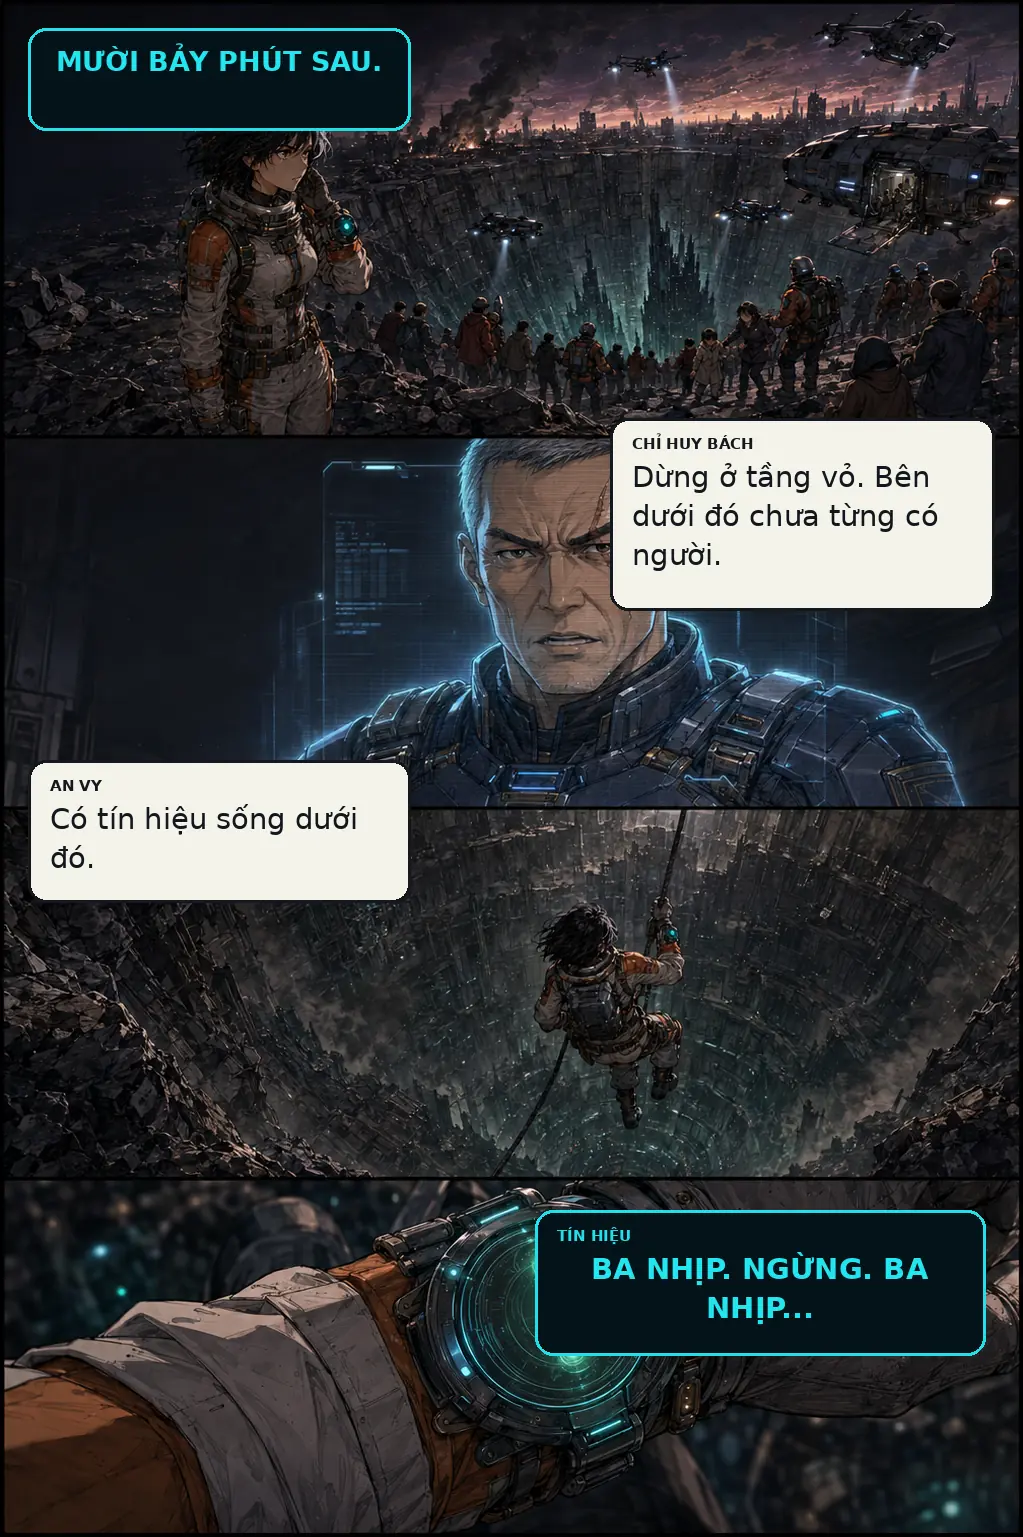
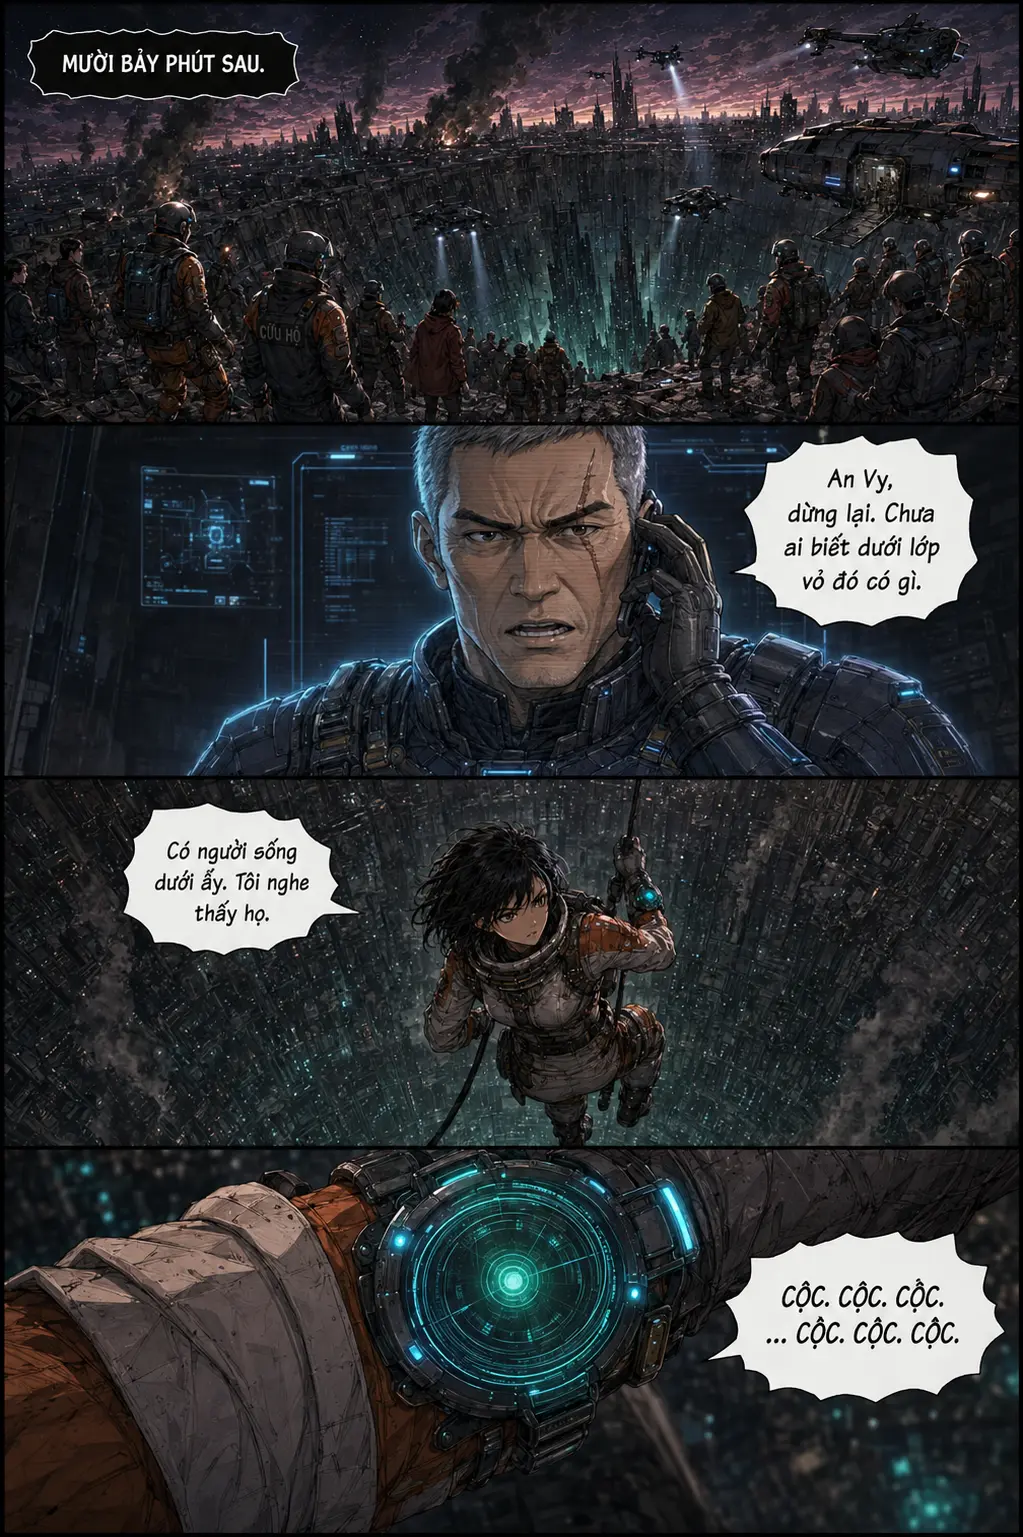
Làm tự nhiên thoại mở đầu Vết Thủng 2237

diff --git a/vet-thung-2237/story-data.js b/vet-thung-2237/story-data.js
@@ -3,8 +3,8 @@ const STORY = {
   publishedThrough: 12,
   chapterComplete: true,
   pages: [
-    {number: 1, image: 'assets/pages/page-01.webp', title: 'Thứ rơi ngoài bản đồ sao', alt: 'Thiên thể đen xuyên qua thành phố năm 2237'},
-    {number: 2, image: 'assets/pages/page-02.webp', title: 'Ba nhịp', alt: 'An Vy nhận tín hiệu sống dưới hố sâu'},
+    {number: 1, image: 'assets/pages/page-01.webp?v=dialogue-20260811', title: 'Thứ rơi ngoài bản đồ sao', alt: 'Thiên thể Mắt Rơi xuyên qua thành phố năm 2237 và An Vy gọi Trung tâm'},
+    {number: 2, image: 'assets/pages/page-02.webp?v=dialogue-20260811', title: 'Ba nhịp', alt: 'An Vy bất chấp lệnh dừng và nghe ba nhịp từ dưới hố sâu'},
     {number: 3, image: 'assets/pages/page-03.webp', title: 'Kẻ Trên Mặt', alt: 'An Vy chạm trán chiến binh Kha-Ruun'},
     {number: 4, image: 'assets/pages/page-04.webp', title: 'Bầu trời thứ hai', alt: 'Kha-Ruun đưa An Vy nhìn thấy Nham Cung'},
     {number: 5, image: 'assets/pages/page-05.webp', title: 'Nham Cung báo động', alt: 'An Vy và Kha-Ruun bị đưa ra trước Hội Đồng Nham'},

diff --git a/vet-thung-2237/index.html b/vet-thung-2237/index.html
@@ -75,7 +75,7 @@
     </nav>
   </section>
 
-  <script src="story-data.js"></script>
+  <script src="story-data.js?v=dialogue-20260811"></script>
   <script src="app.js"></script>
 </body>
 </html>

diff --git a/vet-thung-2237/docs/qa-log.md b/vet-thung-2237/docs/qa-log.md
@@ -25,7 +25,15 @@
 - Ảnh Open Graph dùng URL tuyệt đối để trình thu thập mạng xã hội tải đúng trên GitHub Pages.
 - Ở trang 12, nút tiến đổi thành nút hoàn tất chương; khi xác nhận, reader đóng, tiến độ về trang 1 và nút chính đổi thành “Đọc lại chương”.
 
+## Audit thoại tự nhiên — 11/08/2026
+
+- Đã thay mới trang 1 và trang 2 bằng ảnh truyện được tạo hoàn chỉnh cùng bong bóng thoại tiếng Việt; không ghép hộp thoại dạng giao diện lên tranh.
+- Đã viết lại lời An Vy, Chỉ huy Bách và Trung tâm theo câu nói ngắn, có phản ứng trực tiếp trong tình huống khẩn cấp.
+- Đã chuyển tín hiệu ba nhịp thành âm thanh “Cộc. Cộc. Cộc.” để người đọc cảm nhận thay vì nghe nhân vật giải thích.
+- Đã bỏ nhãn tên người nói khỏi bong bóng; đuôi thoại và ngữ cảnh khung tranh xác định người đang nói.
+- Đã đối chiếu chính tả, dấu tiếng Việt, thứ tự sự kiện, màu trang phục và thiết bị cứu hộ cyan của An Vy.
+
 ## Trạng thái
 
 - Chương 1 hoàn tất: 12/12 trang.
-- Lượt audit tiếp theo nên kiểm tra hiệu năng ảnh, cache font và độ ổn định khi mở/đóng toàn màn hình trên iOS.
+- Lượt audit tiếp theo tiếp tục làm mềm thoại và thay trang 3–4 theo chuẩn bong bóng thoại mới.

diff --git a/vet-thung-2237/chapters/chuong-01.md b/vet-thung-2237/chapters/chuong-01.md
@@ -4,15 +4,16 @@
 
 ### Trang 1 — Thứ rơi ngoài bản đồ sao
 
-- Dẫn: “Năm 2237. Loài người đã chặn được bão Mặt Trời, nhưng không ai ngăn được thứ rơi từ bên ngoài bản đồ sao.”
-- An Vy: “Trung tâm, thiên thể không phát nổ. Nó đang... khoan xuống!”
-- Trung tâm: “Độ sâu sáu mươi ki-lô-mét. Vẫn tăng.”
+- Dẫn: “Năm 2237. Người ta tưởng đã chế ngự được bầu trời. Rồi Mắt Rơi xuất hiện.”
+- An Vy: “Trung tâm, nghe rõ không? Nó không nổ... nó đang khoan thẳng xuống!”
+- Trung tâm: “Rõ. Sáu mươi ki-lô-mét rồi. An Vy, rời mép hố ngay!”
 
 ### Trang 2 — Ba nhịp
 
-- Chỉ huy Bách: “Dừng ở tầng vỏ. Bên dưới đó chưa từng có người.”
-- An Vy: “Có tín hiệu sống dưới đó.”
-- Tín hiệu: “Ba nhịp. Ngừng. Ba nhịp...”
+- Dẫn: “Mười bảy phút sau.”
+- Chỉ huy Bách: “An Vy, dừng lại. Chưa ai biết dưới lớp vỏ đó có gì.”
+- An Vy: “Có người sống dưới ấy. Tôi nghe thấy họ.”
+- Tín hiệu: “Cộc. Cộc. Cộc. ... Cộc. Cộc. Cộc.”
 
 ### Trang 3 — Kẻ Trên Mặt
 

diff --git a/vet-thung-2237/docs/world-bible.md b/vet-thung-2237/docs/world-bible.md
@@ -26,3 +26,5 @@ Mắt Rơi là một “chìa khóa quay về” được phóng khỏi Trái Đ
 - Không đổi mặt, tóc, giáp, màu mắt, vị trí vệt sáng hoặc phụ kiện giữa các trang.
 - Không gore. Chiến đấu căng thẳng nhưng không sa vào bạo lực đồ họa.
 - Lời thoại tiếng Việt phải nằm trực tiếp trong ảnh hoàn thiện và được kiểm tra dấu/chính tả trước khi xuất bản.
+- Thoại phải giống lời người thật đang nói trong tình huống khẩn cấp: câu ngắn, có phản ứng và cảm xúc; tránh văn báo cáo, khẩu hiệu hoặc hai nhân vật thay nhau giải thích cốt truyện.
+- Bong bóng thoại phải được dựng cùng trang truyện, có đuôi thoại tự nhiên; không dùng hộp chữ vuông giống giao diện ứng dụng và không ghi nhãn tên người nói trong bong bóng.
